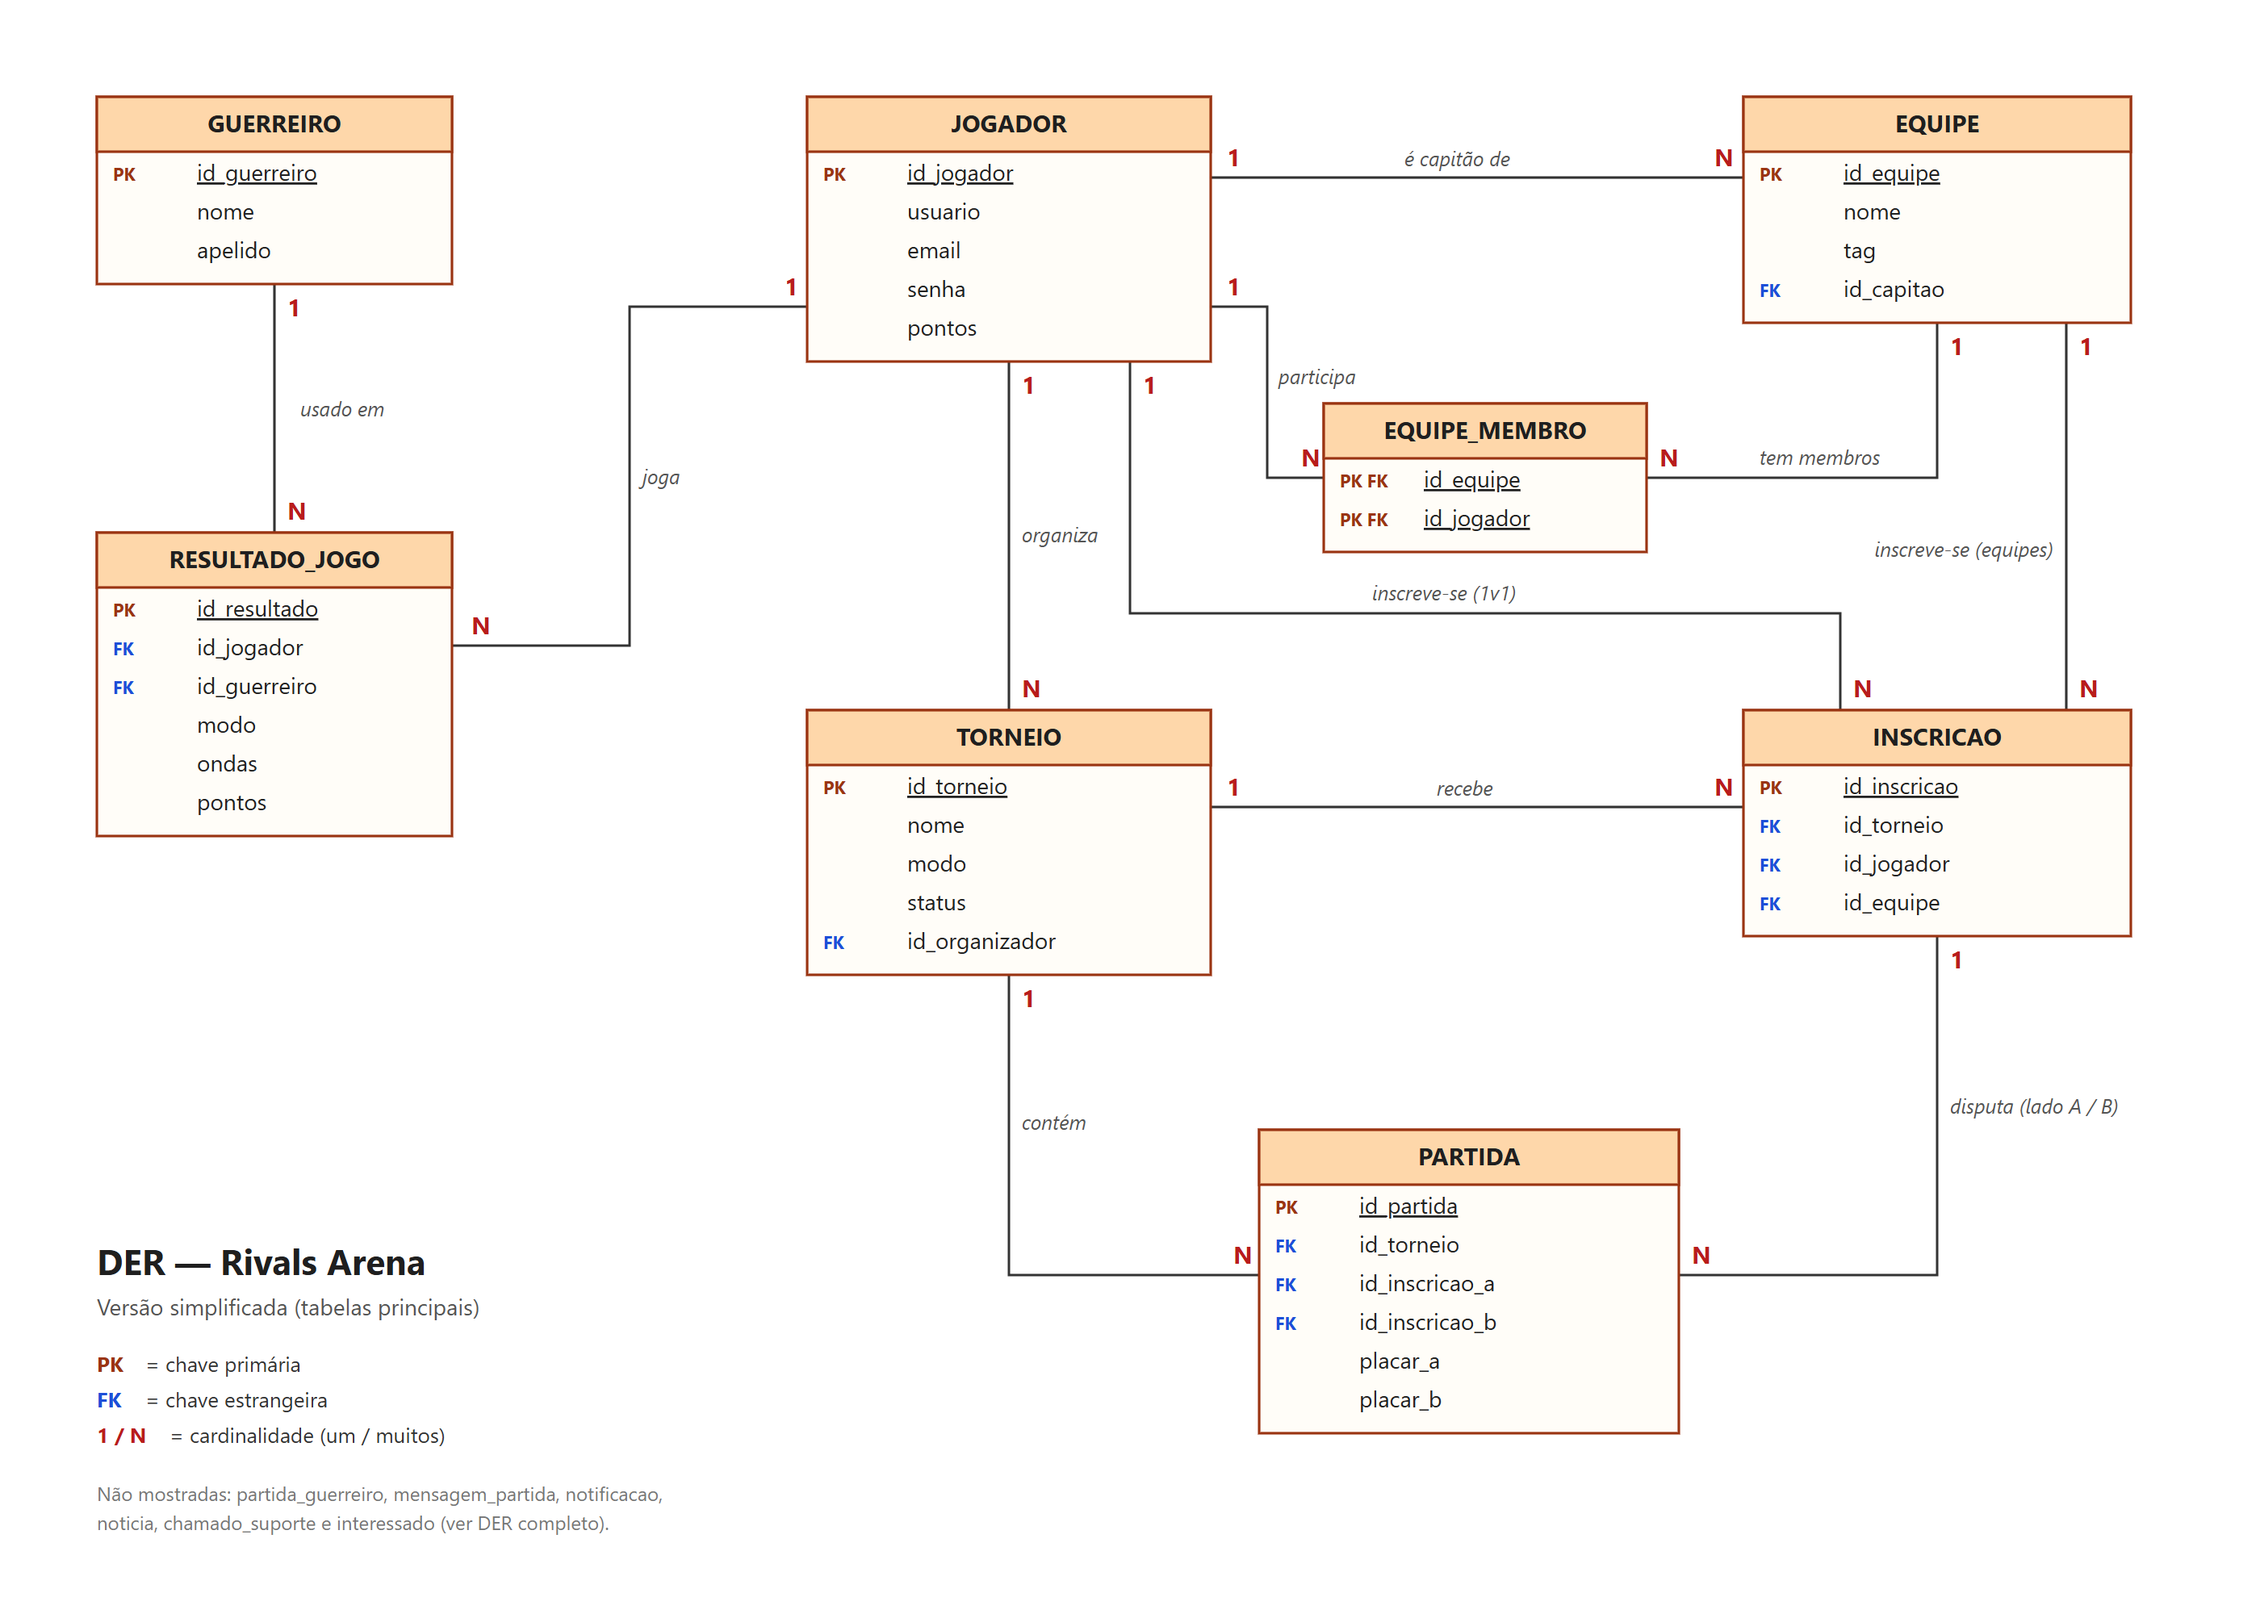
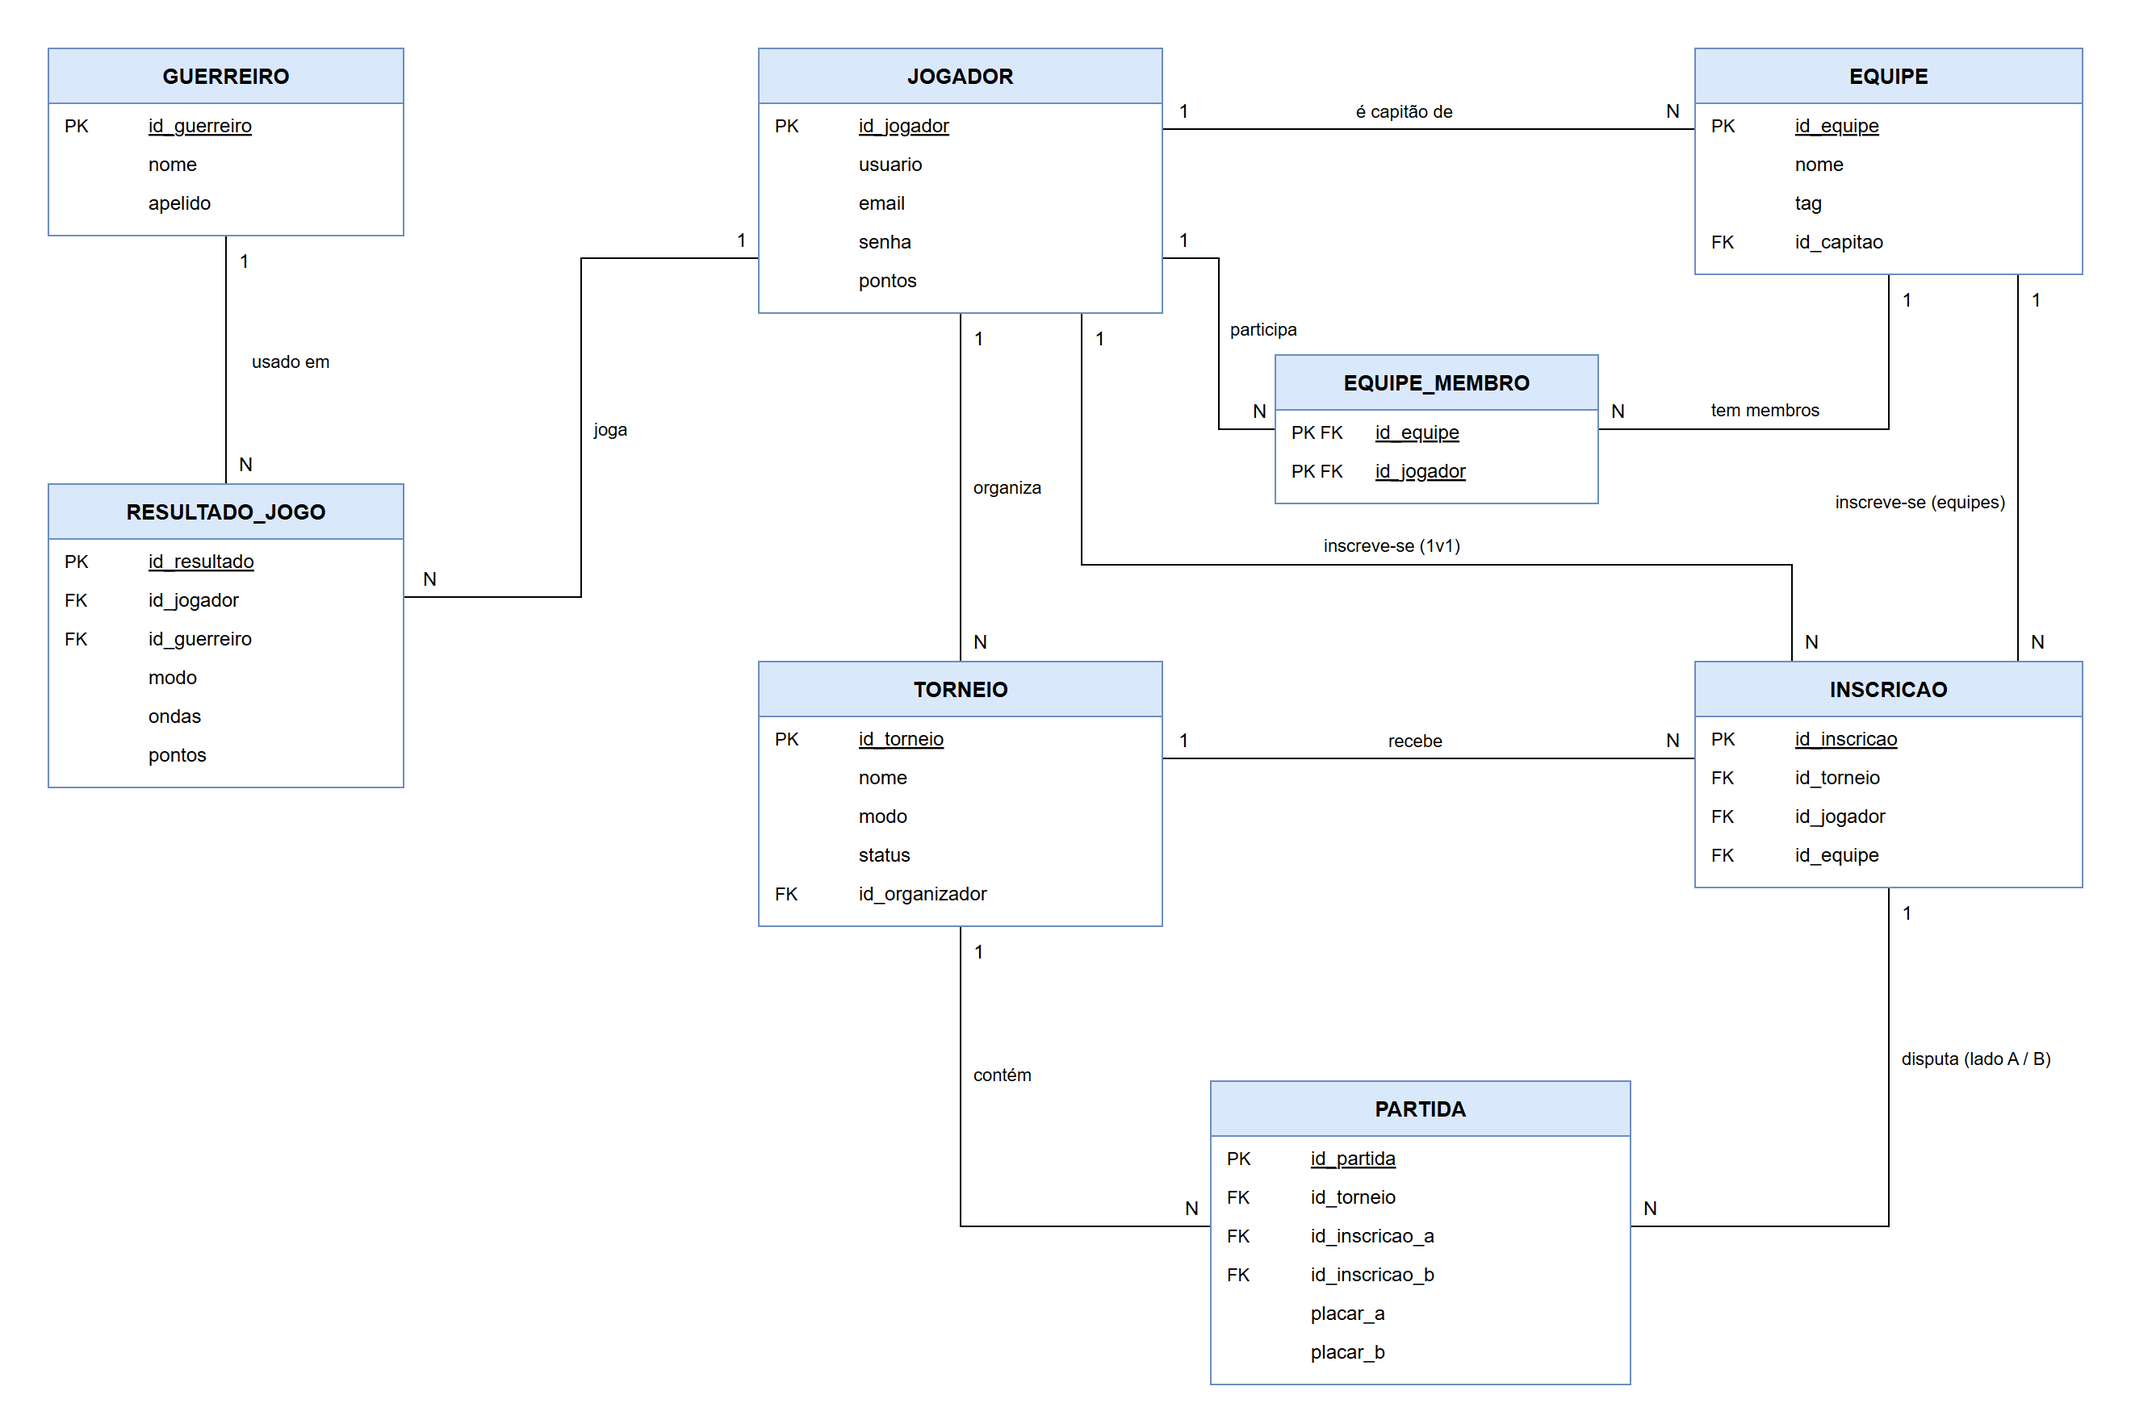
DER simplificado com visual padrão do draw.io
Caixas no estilo padrão, linhas pretas e cardinalidade 1/N sem cores
nem legenda dentro da imagem. Remove emojis do README e do guia.

diff --git a/arquivos-adicionais/INSTALACAO.md b/arquivos-adicionais/INSTALACAO.md
@@ -90,7 +90,7 @@ mysql -u root -p < arquivos-adicionais/sql/03_consultas_exemplo.sql
 ```
 
 **Pelo MySQL Workbench:** *File → Open SQL Script*, abra o `01_criacao_banco.sql`, clique no
-raio ⚡ (*Execute*). Depois faça o mesmo com o `02` e o `03`.
+raio (*Execute*). Depois faça o mesmo com o `02` e o `03`.
 
 **Conferência:** no fim do script 02 aparece uma tabela com a quantidade de linhas:
 jogador 16, equipe 6, torneio 6, inscricao 30, partida 20, resultado_jogo 8, noticia 6.

diff --git a/README.md b/README.md
@@ -2,8 +2,8 @@
 
 > **Onde a rivalidade começa.** Plataforma de competições do jogo **Bellator**.
 
-🔗 **Site publicado:** **https://fidamaa.github.io/rivals-arena/**
-🎮 **Jogo Bellator (itch.io):** https://dedechi.itch.io/bellator
+**Site publicado:** https://fidamaa.github.io/rivals-arena/
+**Jogo Bellator (itch.io):** https://dedechi.itch.io/bellator
 
 Para testar sem criar conta, clique em **Entrar → Entrar com conta de demonstração**.
 
